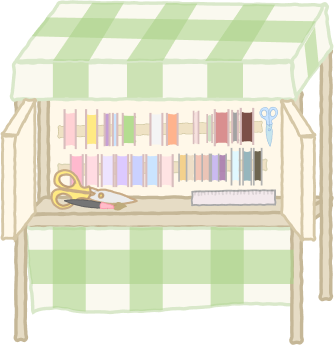
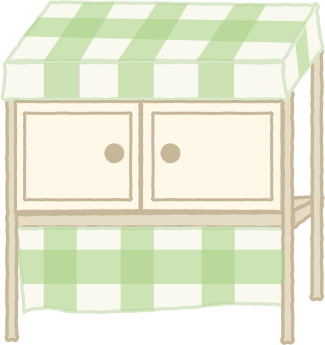
feat: main page

diff --git a/src/app/pages/MainTestPage.tsx b/src/app/pages/MainTestPage.tsx
@@ -7,6 +7,12 @@ import archivePng from "../../assets/main/archive.png";
 import customPng from "../../assets/main/custom.png";
 import orderPng from "../../assets/main/order.png";
 import tablePng from "../../assets/main/table.png";
+import archiveHoverPng from "../../assets/main/archive-hover.png";
+import customHoverPng from "../../assets/main/custom-hover.png";
+import shoongPng from "../../assets/main/shoong.png";
+import orderHoverPng from "../../assets/main/order-hover.png";
+import functionBubblePng from "../../assets/main/function_bubble.png";
+import characterBubblePng from "../../assets/main/character_bubble.png";
 
 const MainTestPage = () => {
 	const [characterSpeechIndex, setCharacterSpeechIndex] = useState(0);
@@ -24,12 +30,6 @@ const MainTestPage = () => {
 		setCharacterSpeechIndex((prev) => (prev + 1) % characterSpeeches.length);
 	};
 
-	const renderHoverBubble = (text: string, className: string) => (
-		<Bubble
-			text={text}
-			className={`absolute z-40 ${className}`}
-		/>
-	);
     return (
 		<div
 			className="min-h-screen flex flex-col items-center justify-center relative bg-background bg-cover bg-center text-center"
@@ -42,65 +42,123 @@ const MainTestPage = () => {
 					onMouseEnter={() => setHoveredButton("shop")}
 					onMouseLeave={() => setHoveredButton(null)}
                     onClick={() => navigate("/shop")}
-                    className="absolute bottom-[8.74em] left-1/2 z-30 cursor-pointer w-[12.25em] h-[11.88em] translate-x-[calc(-50%-18.5em)]">
+                    className="absolute bottom-[7.5em] left-1/2 z-30 cursor-pointer w-[12.25em] h-[11.88em] translate-x-[calc(-50%-18.5em)]"
+					style={{
+						transform: hoveredButton === "shop" ? "scale(1.02)" : "scale(1)",
+						transition: "transform 0.2s ease-in-out",
+						transformOrigin: "center center",
+						transformStyle: "preserve-3d",
+					}}>
                     <img 
                         src={cartPng}
                         alt="shop"
                         className="w-full h-full"
+						style={{
+							transform: hoveredButton === "shop" ? "rotate(-20deg)" : "rotate(0deg)",
+							transition: "transform 0.2s ease-in-out",
+						}}
                     />
+                    {hoveredButton === "shop" && (
+                        <img 
+                            src={shoongPng}
+                            alt="shoong"
+                            className="absolute top-[7em] left-[-2em] w-[4em] h-[4em] z-40"
+                        />
+                    )}
 					{hoveredButton === "shop" &&
-						renderHoverBubble(
-							"Shop",
-							"bottom-[18em] left-1/2 translate-x-[calc(-50%-2em)]"
-						)}
+						<Bubble
+							text="Shop"
+							className="absolute bottom-[18em] left-1/2 translate-x-[calc(-50%-2em)] w-[13.75em] h-[7.5em]"
+							backgroundImage={functionBubblePng}
+							backgroundSize="contain"
+							backgroundPosition="center"
+						/>}
                 </button>
                 <button 
 					onMouseEnter={() => setHoveredButton("archive")}
 					onMouseLeave={() => setHoveredButton(null)}
                     onClick={() => navigate("/archive")}
-                    className="absolute bottom-[14.516em] left-1/2 z-20 cursor-pointer w-[22.54em] h-[20.55em] translate-x-[calc(-50%+23.5em)]">
+                    className="absolute bottom-[12.5em] right-1/5 z-20 cursor-pointer w-[22.54em] h-[20.55em]"
+					style={{
+						transform: hoveredButton === "archive" ? "scale(1.02)" : "scale(1)",
+						transition: "transform 0.2s ease-in-out",
+						transformOrigin: "center center",
+						transformStyle: "preserve-3d",
+					}}>
                     <img 
-                        src={archivePng}
+                        src={hoveredButton === "archive" ? archiveHoverPng : archivePng}
                         alt="archive"
                         className="w-full h-full"
                     />
 					{hoveredButton === "archive" &&
-						renderHoverBubble(
-							"Archive",
-							"bottom-[22.5em] left-1/2 translate-x-[calc(-50%-10em)]"
-						)}
+						<Bubble
+							text="Archive"
+							className="absolute bottom-[22.5em] left-1/2 translate-x-[calc(-50%-10em)] w-[13.75em] h-[7.5em]"
+							backgroundImage={functionBubblePng}
+							backgroundSize="contain"
+							backgroundPosition="center"
+						/>}
                 </button>
                 <button 
 					onMouseEnter={() => setHoveredButton("custom")}
 					onMouseLeave={() => setHoveredButton(null)}
                     onClick={() => navigate("/customizing")}
-                    className="absolute bottom-[16.8em] left-1/2 z-20 cursor-pointer w-[20em] h-[21.3125em] translate-x-[calc(-50%-25em)]">
+                    className={`absolute bottom-[15.5em] right-2/3 z-20 cursor-pointer h-[21.3125em] ${hoveredButton === "custom" ? "w-[20.6em]" : "w-[20em]"}`}
+					style={{
+						transform: hoveredButton === "custom" ? "scale(1.02)" : "scale(1)",
+						transition: "transform 0.2s ease-in-out",
+						transformOrigin: "center center",
+						transformStyle: "preserve-3d",
+					}}>
                     <img 
-                        src={customPng}
+                        src={hoveredButton === "custom" ? customHoverPng : customPng}
                         alt="customizing"
                         className="w-full h-full"
                     />
                     {hoveredButton === "custom" &&
-						renderHoverBubble(
-							"Customizing",
-							"bottom-[26.5em] left-1/2 translate-x-[calc(-50%-4.5em)]"
-						)}
+						<Bubble
+							text="Customizing"
+							className="absolute bottom-[26.5em] left-1/2 translate-x-[calc(-50%-4.5em)] w-[13.75em] h-[7.5em]"
+							backgroundImage={functionBubblePng}
+							backgroundSize="contain"
+							backgroundPosition="center"
+						/>}
 				</button>
                 <button 
 					onMouseEnter={() => setHoveredButton("order")}
 					onMouseLeave={() => setHoveredButton(null)}
                     onClick={() => navigate("/order")}
-                    className="absolute bottom-[26.2em] left-1/2 transform -translate-x-1/2 z-40 cursor-pointer w-[5.78em] h-[4.3em] translate-x-[calc(-10em)]">
+                    className="absolute bottom-[26.2em] left-1/2 transform -translate-x-1/2 z-40 cursor-pointer w-[5.78em] h-[4.3em] translate-x-[calc(-10em)]"
+					style={{
+						transform: hoveredButton === "order" ? "scale(1.02)" : "scale(1)",
+						transition: "transform 0.2s ease-in-out",
+						transformOrigin: "center center",
+						transformStyle: "preserve-3d",
+					}}>
                     <img 
                         src={orderPng}
                         alt="order"
                         className="w-full h-full"
                     />
+					{hoveredButton === "order" && (
+                        <img 
+                            src={orderHoverPng}
+                            alt="order"
+                            className="absolute top-[-2em] left-[-4em] w-[4em] h-[4em] z-40"
+							style={{
+								transform: "rotate(360deg) translateY(-5%)",
+								transition: "transform 0.2s ease-in-out",
+							}}
+                        />
+                    )}
                     {hoveredButton === "order" &&
-						renderHoverBubble(
-							"Order",
-							"bottom-[11em] left-1/2 translate-x-[calc(-50%)]"
-						)}
+						<Bubble
+							text="Order"
+							className="absolute bottom-[12em] left-1/2 translate-x-[calc(-50%)] w-[13.75em] h-[7.5em]"
+							backgroundImage={functionBubblePng}
+							backgroundSize="contain"
+							backgroundPosition="center"
+						/>}
 				</button>
                 <img 
                     src={tablePng}
@@ -111,7 +169,11 @@ const MainTestPage = () => {
                 {characterSpeechIndex !== 0 && (
 					<Bubble
 						text={characterSpeeches[characterSpeechIndex]}
-						className="absolute bottom-[10em] left-1/2 z-40 translate-x-[-50%]"
+						className="absolute bottom-[10em] left-1/2 z-40 translate-x-[-50%] w-[28em] h-[7.875em]"
+						backgroundImage={characterBubblePng}
+						backgroundSize="contain"
+						backgroundPosition="center"
+						fontFamily="NexonLv1Gothic"
 					/>
 				)}
 			</div>

diff --git a/src/components/Bubble.tsx b/src/components/Bubble.tsx
@@ -3,31 +3,41 @@ import React from "react";
 interface BubbleProps {
 	text: string;
 	className?: string;
+	backgroundImage?: string;
+	backgroundSize?: string;
+	backgroundPosition?: string;
+	fontFamily?: string;
 }
 
-const Bubble: React.FC<BubbleProps> = ({ text, className }) => {
+const Bubble: React.FC<BubbleProps> = ({ 
+	text, 
+	className, 
+	backgroundImage, 
+	backgroundSize = "contain", 
+	backgroundPosition = "center",
+	fontFamily = "SUIT-Regular"
+}) => {
 	return (
 		<div className={`relative inline-block ${className}`}>
 			<div 
-                className="bg-white text-black/90 px-9 py-4 rounded-full border-4 border-[#CBCBCB] relative whitespace-nowrap" 
+                className="text-black/90 rounded-full relative whitespace-nowrap flex items-start justify-center w-full h-full" 
                 style={{
-                    filter: "drop-shadow(3px 4px 11.4px rgba(0, 0, 0, 0.10))"
+                    backgroundImage: backgroundImage ? `url(${backgroundImage})` : undefined,
+                    backgroundSize: backgroundSize,
+                    backgroundPosition: backgroundPosition,
+                    backgroundRepeat: "no-repeat",
+                    backgroundColor: backgroundImage ? "transparent" : "white",
+                    border: backgroundImage ? "none" : "4px solid #CBCBCB",
                 }}
                 >
 				<span 
-                    className="font-bold text-xl" 
+                    className={`${fontFamily === "NexonLv1Gothic" ? "font-normal" : "font-bold"} text-xl py-6.5 text-align-start`}
                     style={{
-						fontFamily: "SUIT-Regular",
+						fontFamily: fontFamily,
 					}}
                     >
                         {text}
                     </span>
-
-				
-			{/* 꼬리 테두리 (before) */}
-			<div className="absolute bottom-[-2.25em] 3xl:bottom-[-1.75em] 4xl:bottom-[-1.5em] left-[2em] z-0 w-0 h-0 border-l-[10px] border-r-[10px] border-t-[26px] border-transparent border-t-[#CBCBCB]" />
-			{/* 꼬리 내부 (after) */}
-			<div className="absolute bottom-[-1.625em] 3xl:bottom-[-1.25em] 4xl:bottom-[-1em] left-[2.325em] z-10 w-0 h-0 border-l-[6px] border-r-[6px] border-t-[23px] border-transparent border-t-white" />
 			</div>
 		</div>
 	);
